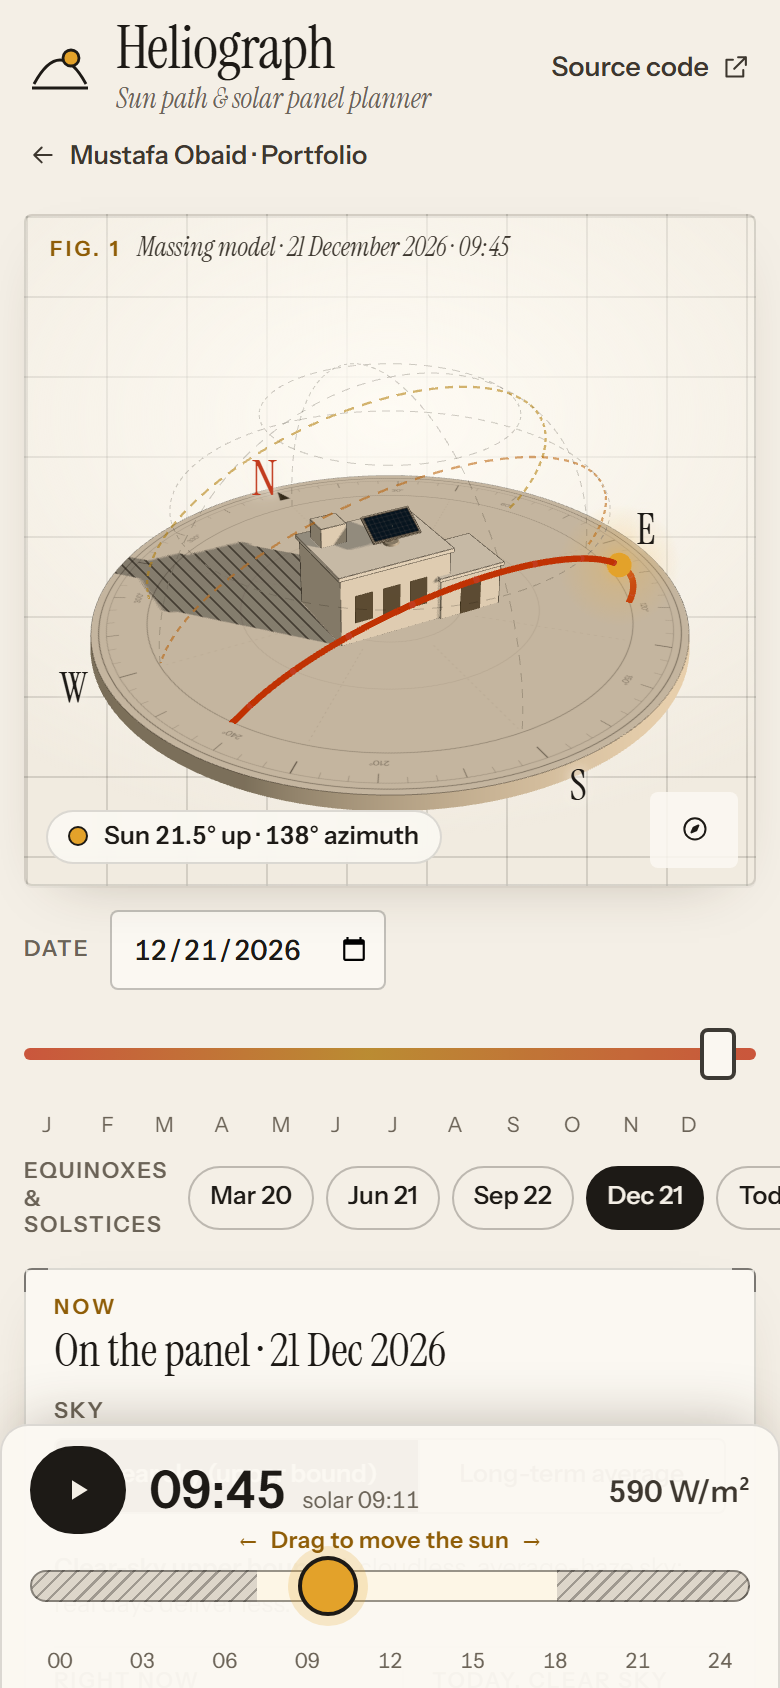
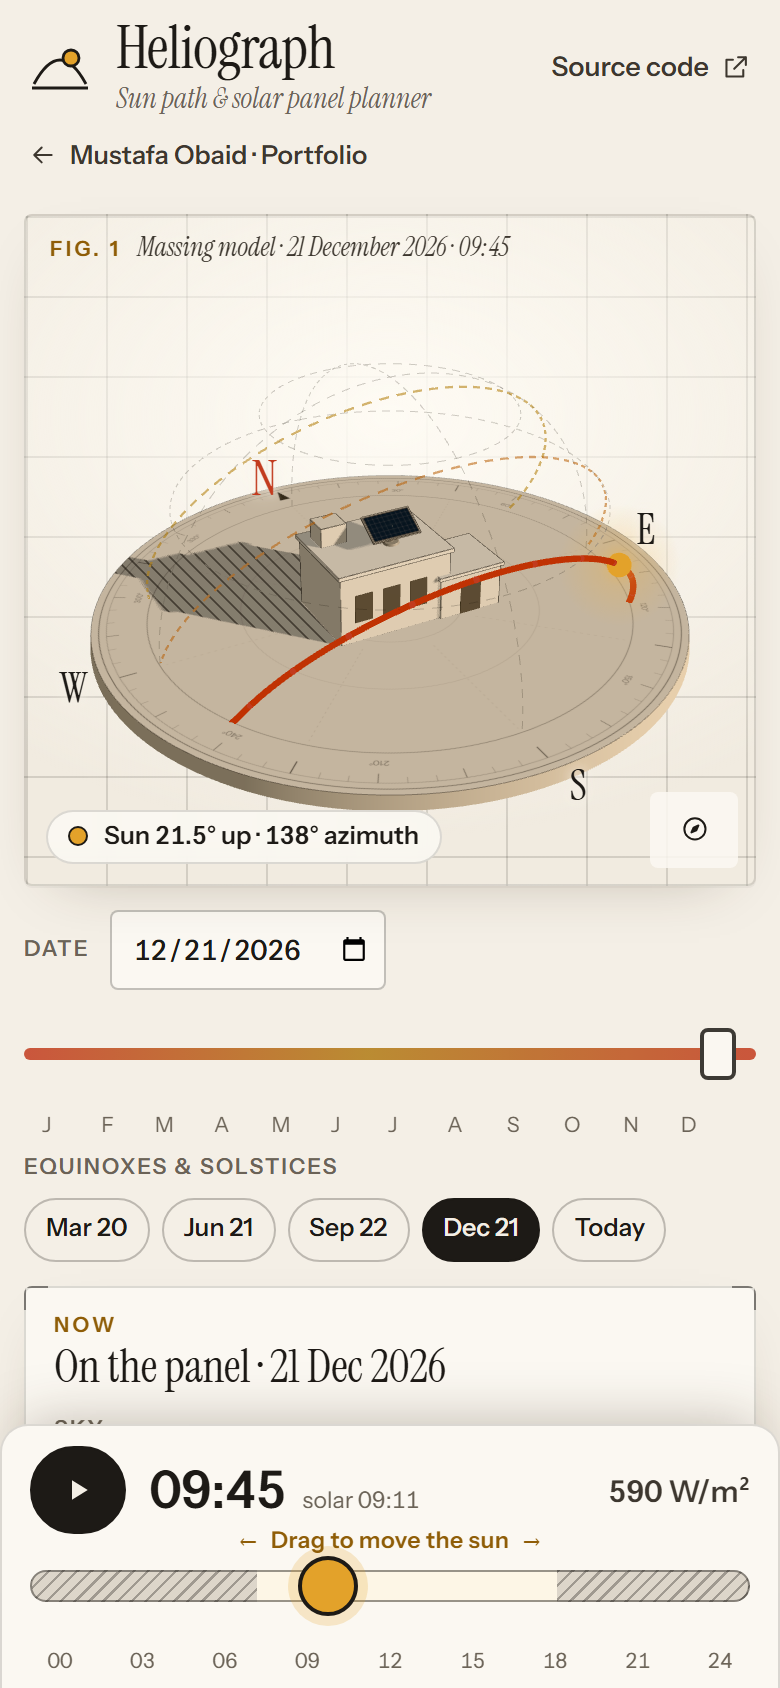
Final screenshots; opaque docked time bar on phones

diff --git a/src/styles/app.css b/src/styles/app.css
@@ -3012,7 +3012,7 @@ main {
     border-bottom: 0;
     padding: 10px 14px calc(8px + env(safe-area-inset-bottom, 0px));
     box-shadow: 0 -10px 30px -12px rgba(60, 44, 20, 0.35);
-    background: rgba(251, 248, 242, 0.97);
+    background: var(--sheet);
   }
   .btn--play {
     grid-area: play;
